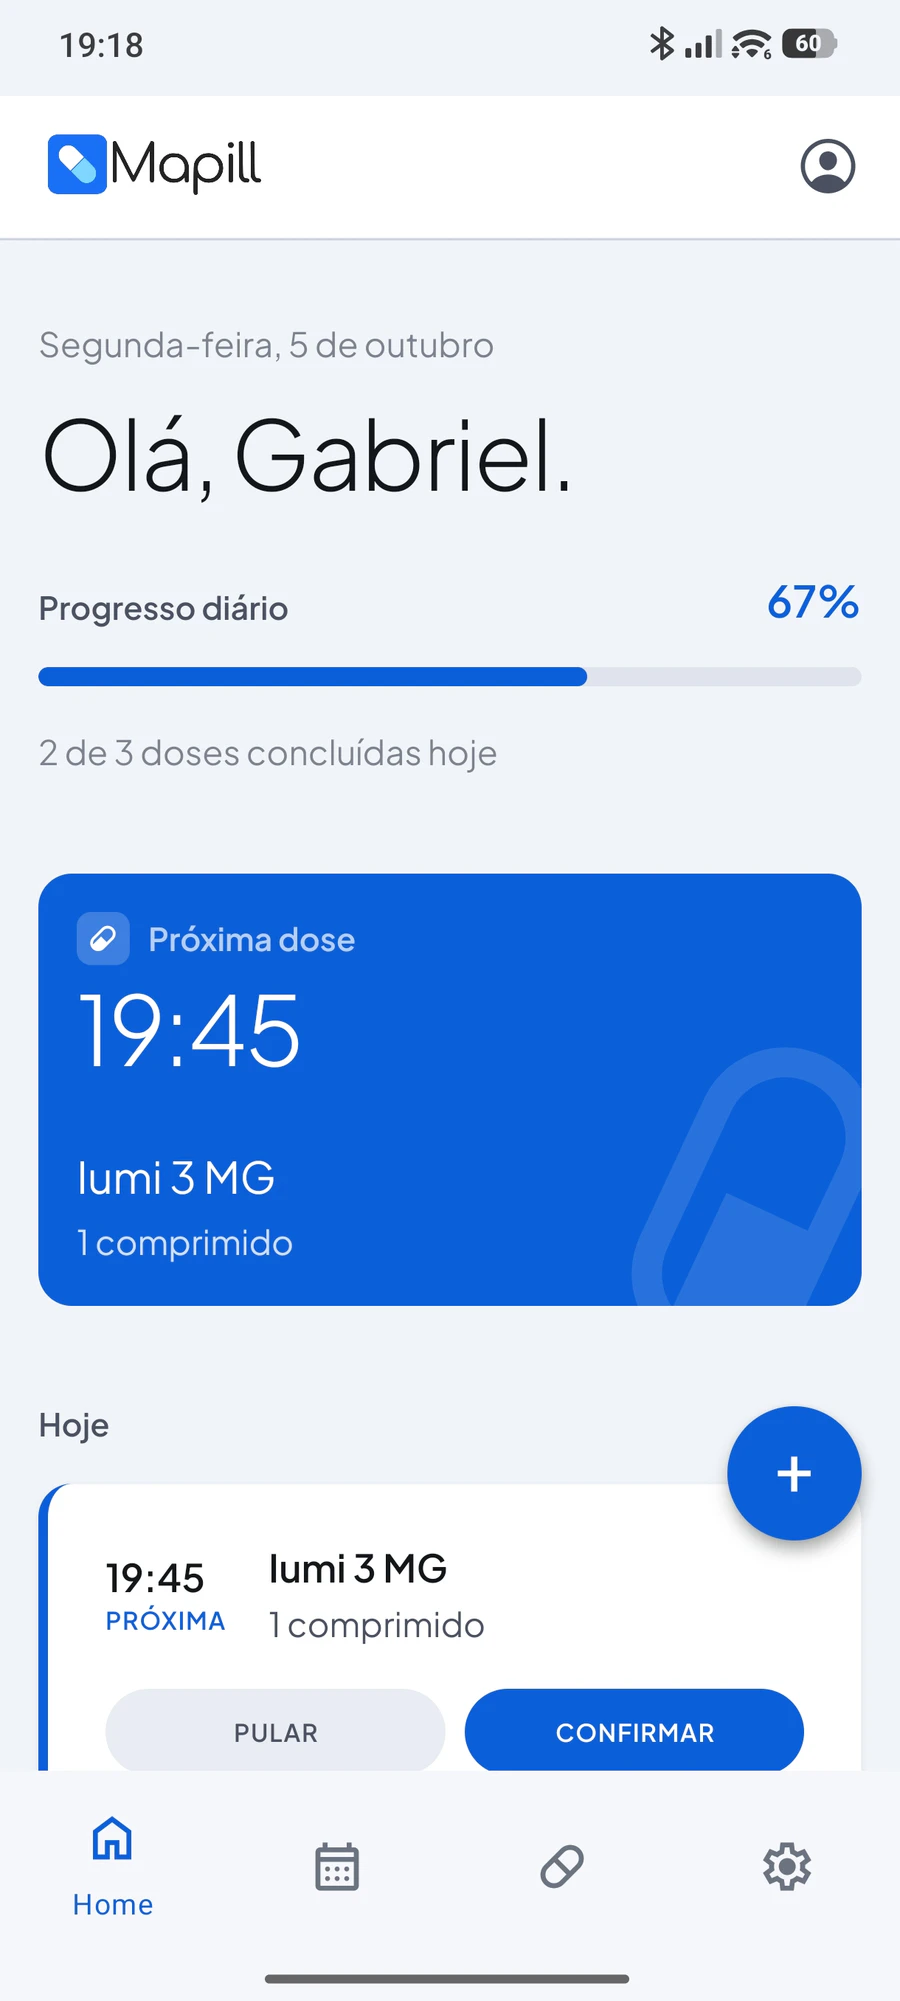
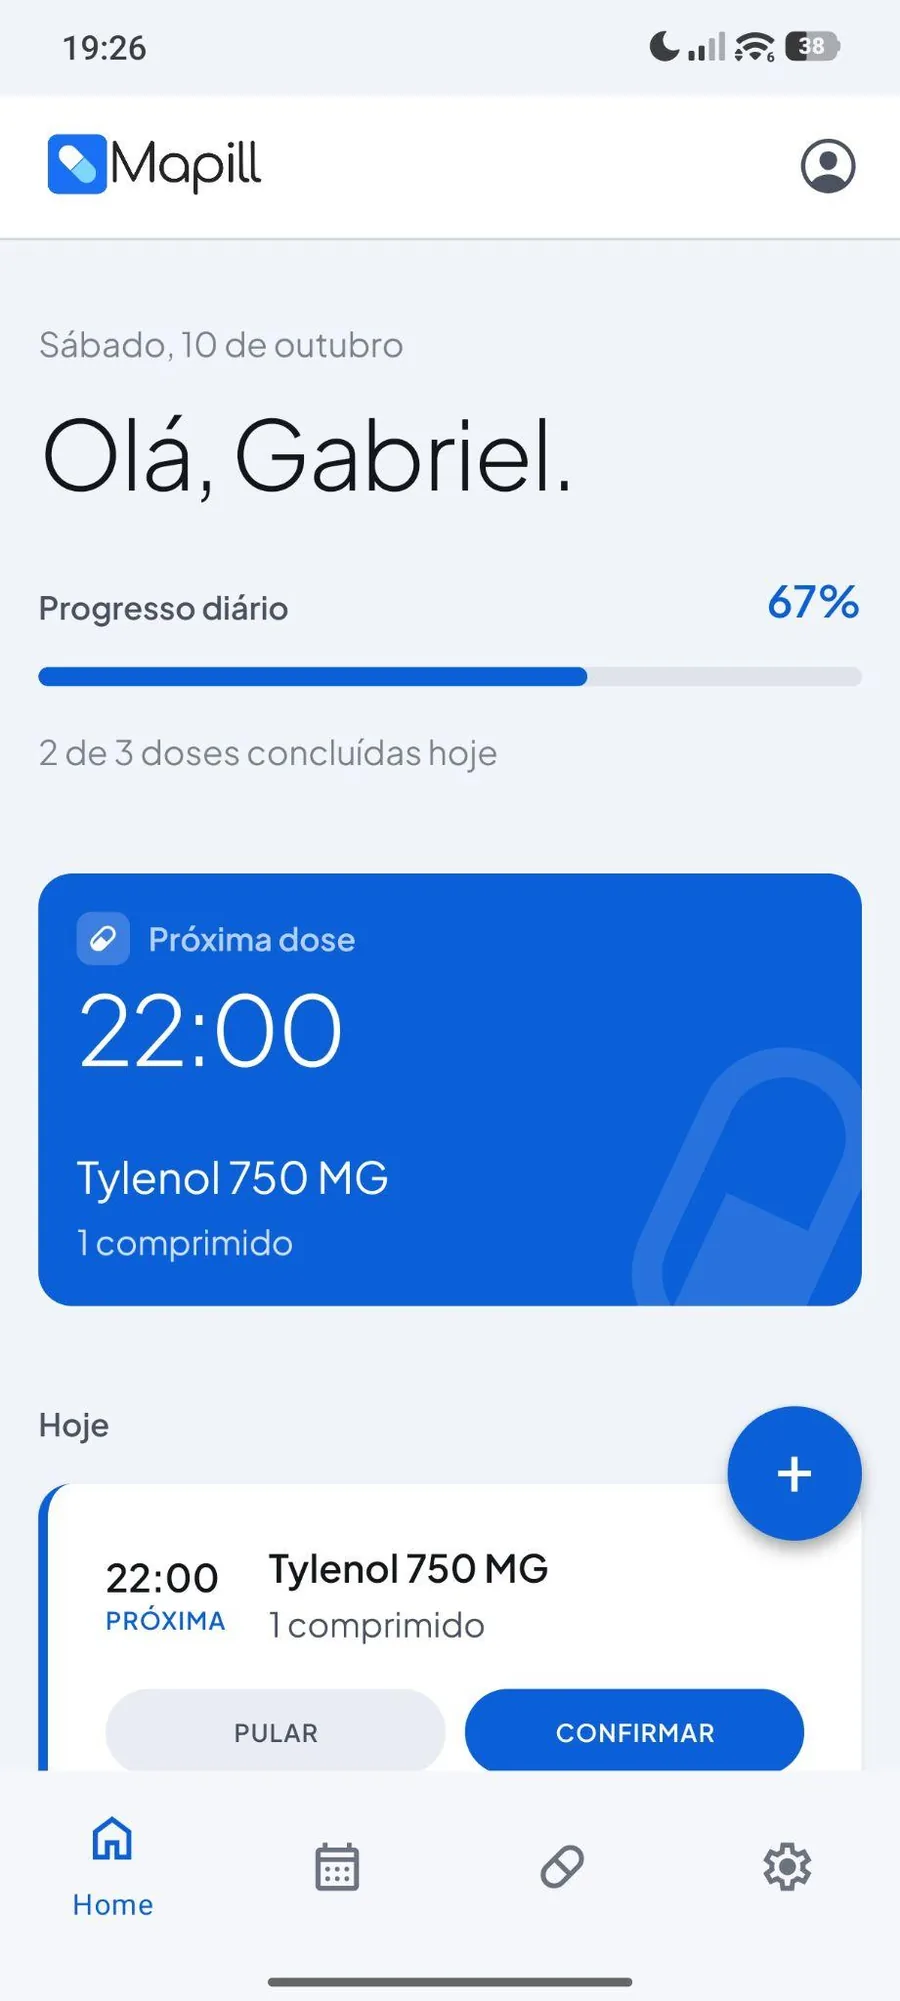
Troca os prints do app pelos novos, mostra o relatório em PDF nos recursos e atualiza o e-mail de contato

diff --git a/src/app/core/site-config.ts b/src/app/core/site-config.ts
@@ -15,7 +15,7 @@ export const SITE_CONFIG = {
    */
   apkUrl: 'https://github.com/gabste8831/Mapill-Website/releases/latest/download/Mapill.apk',
 
-  contactEmail: 'contato@mapill.app',
+  contactEmail: 'gabrielsteffens2003@gmail.com',
 
   /** Crédito do desenvolvedor no rodapé */
   developer: {
@@ -50,17 +50,24 @@ export const SITE_CONFIG = {
   /**
    * Prints reais do app, em `public/images/telas/`, um por tema do site. Cada nome-base existe em
    * três larguras (`<nome>-400.webp`, `-640`, `-900`) e o navegador escolhe a mais adequada.
-   * Sem `escuro`, o print claro vale para os dois temas (o alarme é azul em ambos).
+   * Sem `escuro`, o print claro vale para os dois temas (o alarme é azul em ambos; scanner e
+   * adesão só têm o print do tema claro).
    * `null` mantém a tela simulada.
    */
   screenshots: {
     hoje: { claro: '/images/telas/hoje-claro', escuro: '/images/telas/hoje-escuro' },
     alarme: { claro: '/images/telas/alarme' },
     saude: { claro: '/images/telas/saude-claro', escuro: '/images/telas/saude-escuro' },
-    scanner: { claro: '/images/telas/scanner-claro', escuro: '/images/telas/scanner-escuro' },
+    scanner: { claro: '/images/telas/scanner' },
     estoque: { claro: '/images/telas/estoque-claro', escuro: '/images/telas/estoque-escuro' },
-    adesao: { claro: '/images/telas/adesao-claro', escuro: '/images/telas/adesao-escuro' },
+    adesao: { claro: '/images/telas/adesao' },
   } as Record<'hoje' | 'alarme' | 'saude' | 'scanner' | 'estoque' | 'adesao', Screenshot | null>,
+
+  /**
+   * Relatório em PDF gerado pelo app, em `public/images/relatorio/`, nas mesmas três larguras.
+   * Aparece no cartão "Relatório em PDF" dos recursos. Vazio mostra só o ícone.
+   */
+  reportImage: '/images/relatorio/relatorio',
 
   /**
    * Fotos dos casos de uso, em `public/images/casos/` (Unsplash, licença livre). Como os prints,

diff --git a/src/app/sections/benefits/benefits.css b/src/app/sections/benefits/benefits.css
@@ -113,6 +113,31 @@
   margin-top: 0;
 }
 
+/* Relatório: a folha do PDF à direita, saindo pela borda de baixo; só o cabeçalho aparece */
+.benefit-report {
+  position: relative;
+  min-height: 168px;
+  padding-right: 216px;
+}
+
+.report-sheet {
+  position: absolute;
+  top: 24px;
+  right: 24px;
+  width: 168px;
+  height: auto;
+  /* no tema claro a folha é branca como o cartão: o contorno a separa do fundo */
+  border: 1px solid var(--mapill-borda);
+  border-bottom: 0;
+  border-radius: 10px 10px 0 0;
+  box-shadow: var(--mapill-sombra);
+  transition: translate var(--mapill-medio) var(--mapill-curva);
+}
+
+.benefit-report:hover .report-sheet {
+  translate: 0 -6px;
+}
+
 .history-visual {
   display: flex;
   flex-wrap: wrap;
@@ -146,6 +171,25 @@
 
   .benefit-wide {
     grid-column: auto;
+  }
+
+  /* Sem espaço ao lado do texto: a folha desce para baixo dele e mostra só o topo */
+  .benefit-report {
+    flex-wrap: wrap;
+    min-height: 0;
+    padding-right: 24px;
+    padding-bottom: 0;
+  }
+
+  .report-sheet {
+    position: static;
+    flex: 1 0 100%;
+    width: 100%;
+    max-width: 280px;
+    height: 150px;
+    margin: 4px auto 0;
+    object-fit: cover;
+    object-position: top;
   }
 }
 

diff --git a/src/app/sections/benefits/benefits.html b/src/app/sections/benefits/benefits.html
@@ -70,12 +70,31 @@
         </div>
       </article>
 
-      <article class="benefit-card benefit-wide" appReveal="scale" [revealDelay]="100">
+      <article
+        class="benefit-card benefit-wide"
+        [class.benefit-report]="reportImage"
+        appReveal="scale"
+        [revealDelay]="100"
+      >
         <svg appIcon="file-down" filled class="benefit-icon"></svg>
         <div>
           <h3>Relatório em PDF.</h3>
           <p>Leve à consulta um resumo do tratamento e da adesão.</p>
         </div>
+        @if (reportImage) {
+          <!-- A folha sai pela borda de baixo, como os celulares dos cartões maiores -->
+          <img
+            class="report-sheet"
+            [src]="reportImage + '-400.webp'"
+            [srcset]="photoSrcset(reportImage)"
+            sizes="200px"
+            alt="Primeira página do relatório em PDF, com os tratamentos em curso e a média de adesão"
+            width="400"
+            height="889"
+            loading="lazy"
+            decoding="async"
+          />
+        }
       </article>
     </div>
     <div class="use-cases">

diff --git a/src/app/sections/benefits/benefits.ts b/src/app/sections/benefits/benefits.ts
@@ -36,6 +36,7 @@ export class Benefits {
     },
   ];
   protected readonly shots = SITE_CONFIG.screenshots;
+  protected readonly reportImage = SITE_CONFIG.reportImage;
 
   protected photoSrcset(base: string): string {
     return [400, 640, 900].map((width) => `${base}-${width}.webp ${width}w`).join(', ');
